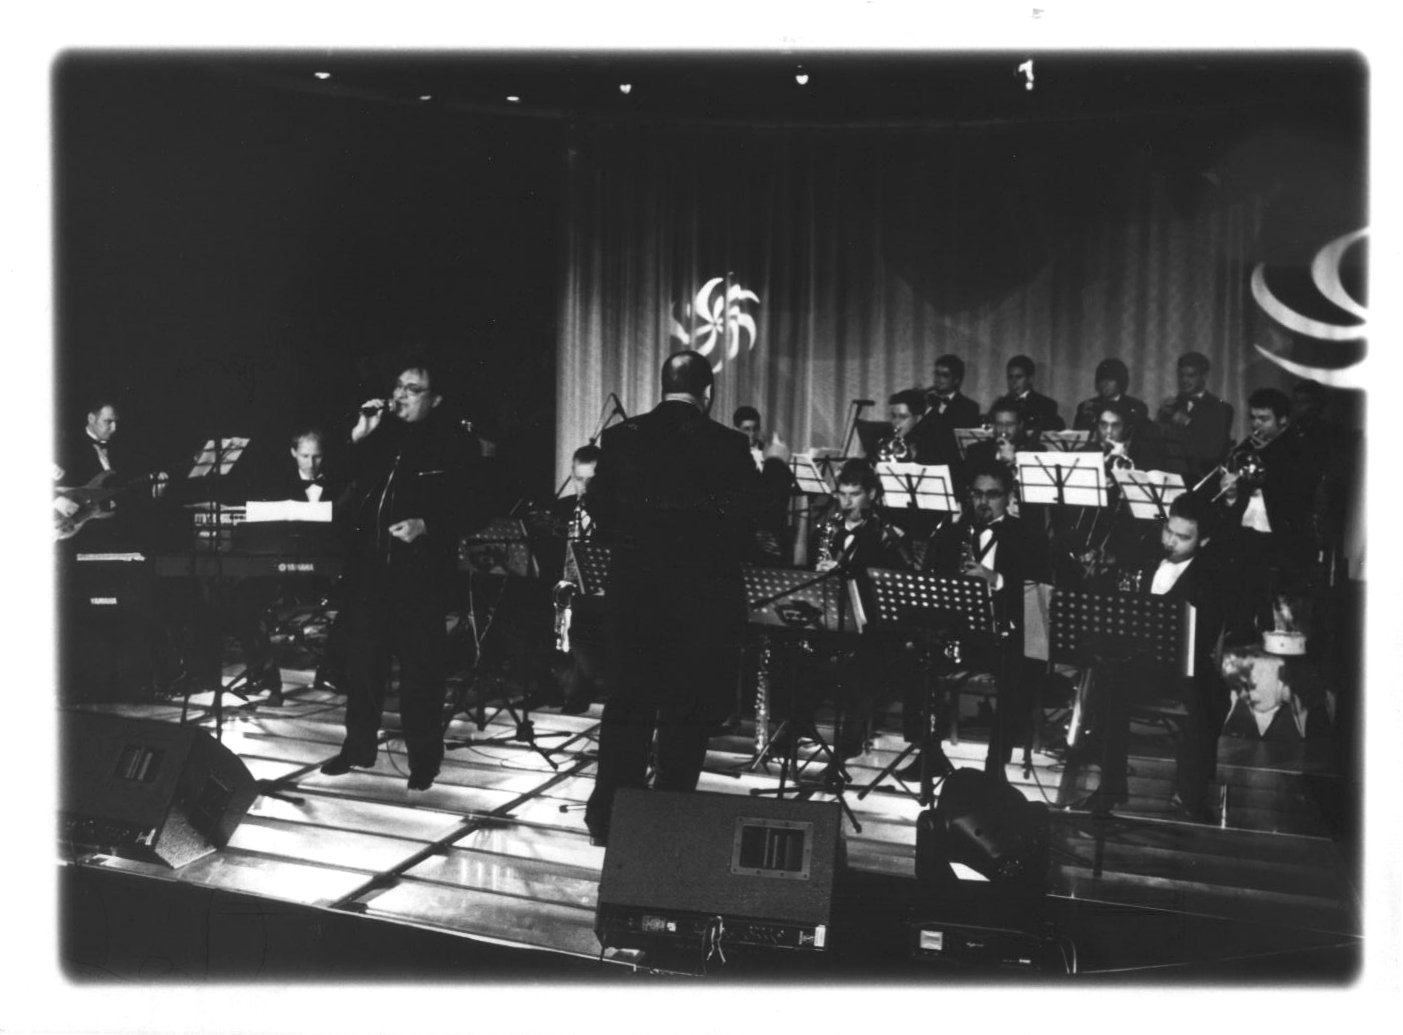
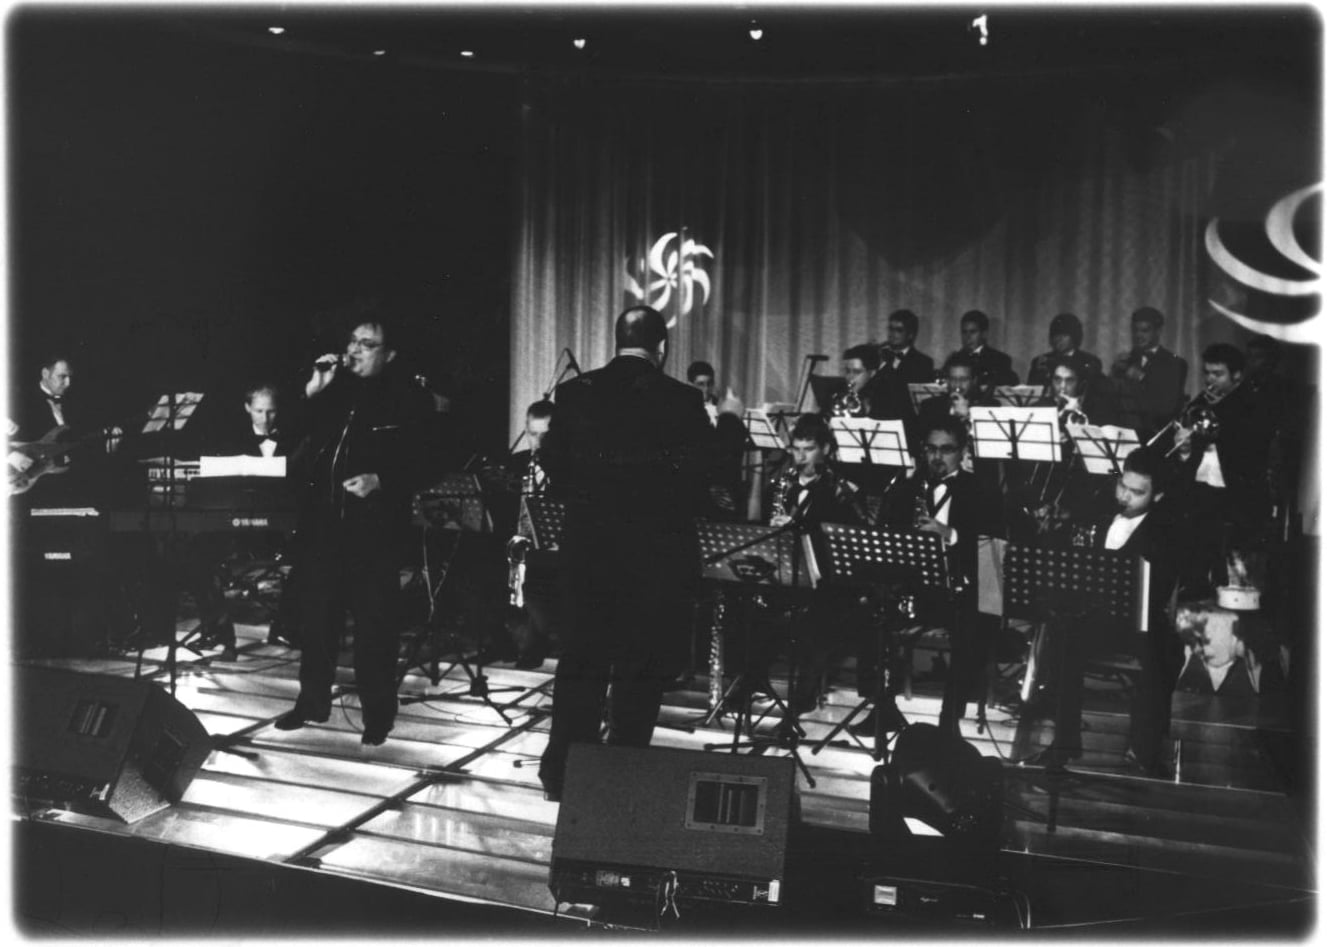
zgodovina: strešice, Marezijazz, ločilo avtorja, skriti preklop skina
Točke 5–8 iz istega naročila so v tem commitu, ker se dotikajo istih
datotek (zgodovina.json, kronika.md, galerija.json) in jih ni mogoče
ločiti po datotekah:

- obrez belega roba skena pri sinatra-pestner-kongo-2005 (1403×1035 ->
  1327×947, ista obdelava kot npm run slike)
- Zanchinni -> Simone Zanchini
- festival 2026 poimenovan Mozaik kulture (soorganizator JSKD),
  prizorišče Kulturni dom Grosuplje
- Vid Jamnik 2006 je bil na koncertu tudi solist

diff --git a/docs/kronika.md b/docs/kronika.md
@@ -107,7 +107,7 @@ Braco J. Doblekar, izključno z mladimi glasbeniki iz okolice Grosuplja.
 
 ### 2019–2023 (obdobje Rudija Javornika)
 - 2019 — Sinatra z Blažem Vrbičem (Grosuplje, Ljubljanski grad, Plečnikov avditorij,
-  ČinČin); december: Count Basie / Diane Schuur program z gostom Zanchinnijem
+  ČinČin); december: Count Basie / Diane Schuur program z gostom Simonejem Zanchinijem
 - 2020–2021 — covid obdobje; posamezni nastopi comba (otvoritve, protokolarni
   dogodki), Sinatra Portorož, poroka Zemono
 - 2022 — 22. 4. koncert z Urošem Perićem in skupino The Pearlettes, otvoritev
@@ -123,13 +123,13 @@ Braco J. Doblekar, izključno z mladimi glasbeniki iz okolice Grosuplja.
 ### jesen 2023–2026 (drugo obdobje Klemna Kotarja)
 - jesen 2023 — **Klemen Kotar znova prevzame dirigentsko taktirko**; »Grosuplje v
   jeseni« z Nino Strnad; novoletni z Juretom Puklom, Laro Grbić in Marušo Kos
-- 2024 — »Flying Start« s Tadejem Tomšičem (gostje Petra Vidmar, Erik Cebokli,
-  Žiga Kozar); combo za ameriško veleposlaništvo (Grand Plaza)
+- 2024 — »Flying Start« s Tadejem Tomšičem (gostje Petra Vidmar, Erik Čebokli,
+  Žiga Kožar); combo za ameriško veleposlaništvo (Grand Plaza)
 - 2025 — koncerta z Gašperjem Kržmancem; Sinatra Marezige; »Images« (Klara
   Lavriša, Žan Cesar); tradicionalni božično-novoletni koncert (Manca Fekonja,
   Blaž Vrbič)
-- 2026 — **Poklon Gordonu Goodwinu** (solist Tomaž Zevnik): maj JSKD festival
-  Grosuplje, 5. 6. Jazz klub Kazina Ljubljana, 10. 7. MarezziJazz;
+- 2026 — **Poklon Gordonu Goodwinu** (solist Tomaž Zevnik): maj festival Mozaik kulture
+  (soorganizator JSKD), Kulturni dom Grosuplje, 5. 6. Jazz klub Kazina Ljubljana, 10. 7. Marezijazz;
   oktober: delavnica aranžiranja z Lojzetom Krajnčanom; »Grosuplje v jeseni«
   (Rok Ferengja, zbori); BBG x Slon in sadež
   (Popravek 5. 9. 2026: koncert s HGM Jazz orkestrom Zagreb in Johnom Thomasom
